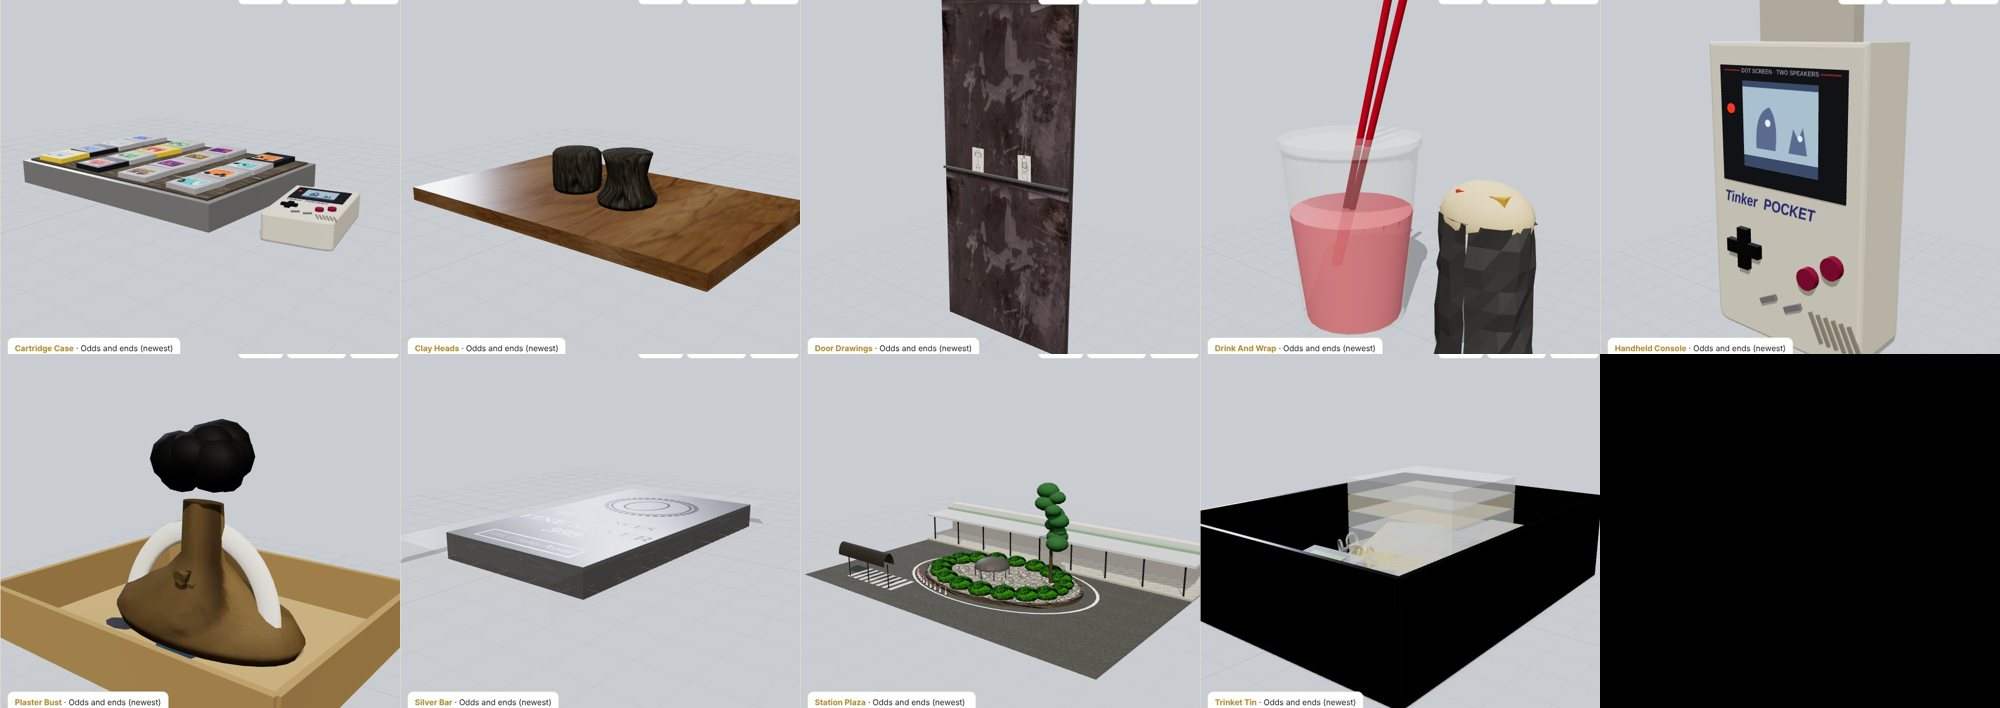
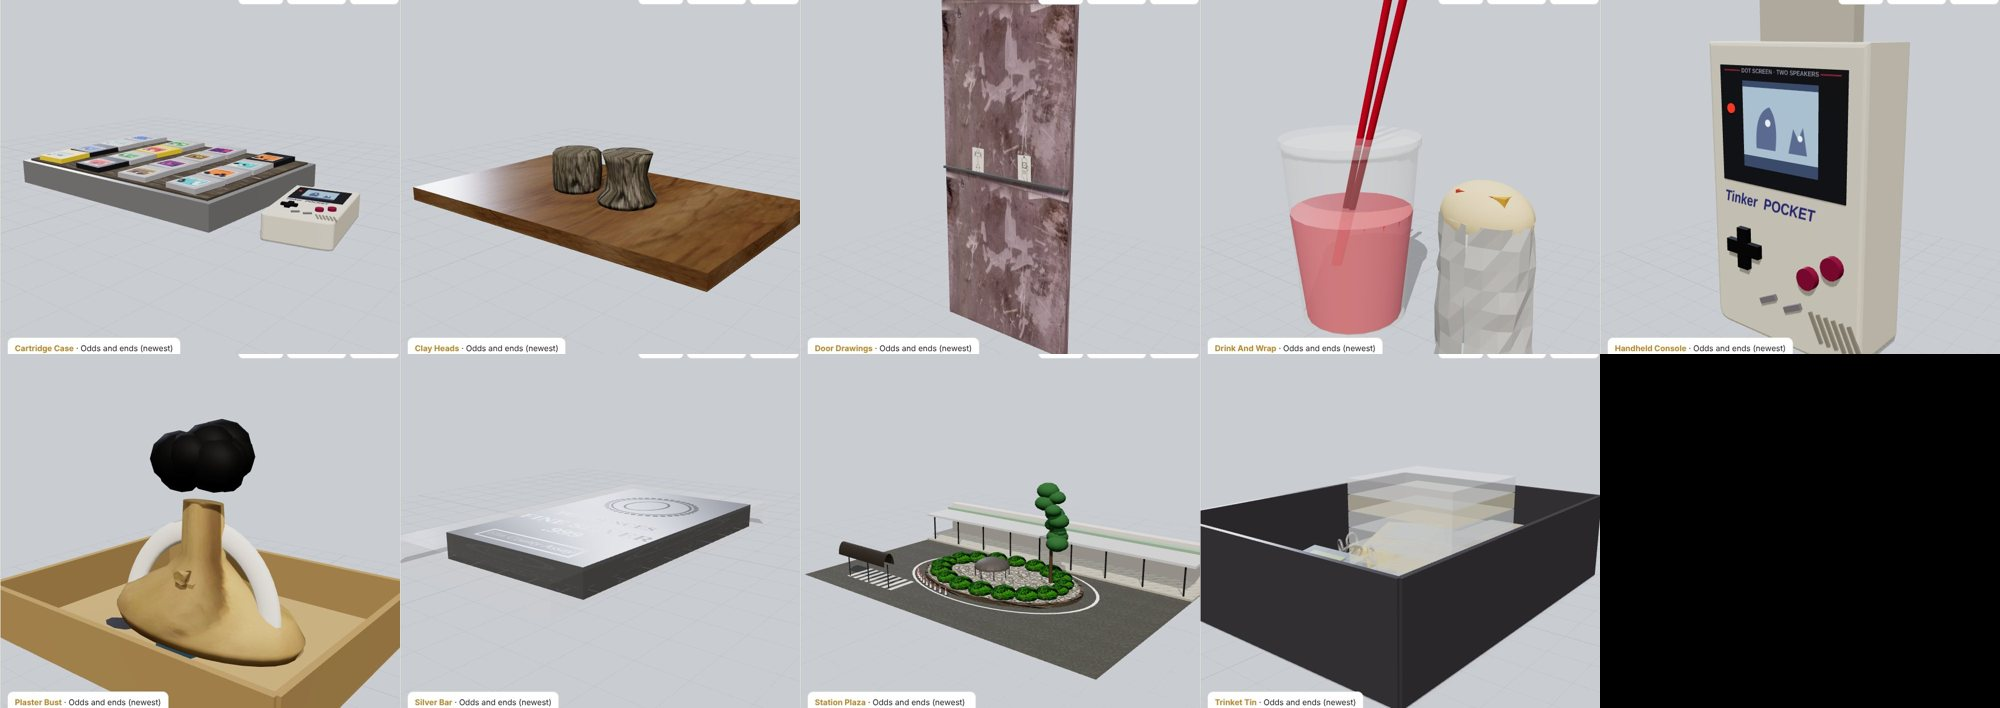
143 Colour fixes on the odds-and-ends models
Claude-Session: https://claude.ai/code/session_01TQrqJmAwukpHBFUrZd2qrz

diff --git a/src/models/props143.js b/src/models/props143.js
@@ -19,7 +19,7 @@ const counter = (g, w = 0.5, d = 0.3) => { const t = B(w, 0.02, d, tiled('g143_w
 // ---- two little heads of dried clay: a squat one and a pinched one, round eye holes, a slot of a mouth, crazed all over
 function head(profile, eyes, mouth, seed) { const r = rng(seed), pts = profile.map(([x, y]) => new THREE.Vector2(x, y)), geo = new THREE.LatheGeometry(pts, 40), p = geo.attributes.position;
   for (let i = 0; i < p.count; i++) { const x = p.getX(i), y = p.getY(i), z = p.getZ(i), a = Math.atan2(x, z); let k = 1 + (r() - 0.5) * 0.04 + Math.sin(a * 3 + y * 40) * 0.015; for (const [ex, ey, er] of eyes) { const d = Math.hypot((a - ex) * 0.03, y - ey); if (d < er && z > 0) k -= (1 - d / er) * 0.28; } const [mx0, mx1, my, mh] = mouth, md = Math.abs(y - my); if (z > 0 && a > mx0 && a < mx1 && md < mh) k -= (1 - md / mh) * 0.35 * Math.sin((a - mx0) / (mx1 - mx0) * PI); p.setXYZ(i, x * k, y, z * k); }
-  geo.computeVertexNormals(); const uv = geo.attributes.uv; for (let i = 0; i < uv.count; i++) uv.setXY(i, Math.atan2(p.getX(i), p.getZ(i)) * 0.3, p.getY(i) * 6); const m = new THREE.Mesh(geo, mat('g143_clay_cracked', { tint: '#c8c8c4', rough: 1, normal: 1.4 })); const g = new THREE.Group(); g.add(m); const top = new THREE.Mesh(new THREE.CircleGeometry(profile[profile.length - 1][0], 28), mat('g143_clay_cracked', { tint: '#c8c8c4', rough: 1 })); top.rotation.x = -PI / 2; top.position.y = profile[profile.length - 1][1]; g.add(top);
+  geo.computeVertexNormals(); const uv = geo.attributes.uv; for (let i = 0; i < uv.count; i++) uv.setXY(i, Math.atan2(p.getX(i), p.getZ(i)) * 0.3, p.getY(i) * 6); const m = new THREE.Mesh(geo, mat('g143_clay_cracked', { to: '#d0ccc4', rough: 1, normal: 1.4 })); const g = new THREE.Group(); g.add(m); const top = new THREE.Mesh(new THREE.CircleGeometry(profile[profile.length - 1][0], 28), mat('g143_clay_cracked', { to: '#d0ccc4', rough: 1 })); top.rotation.x = -PI / 2; top.position.y = profile[profile.length - 1][1]; g.add(top);
   // the dark of the holes
   const dk = plain('#141412', { roughness: 1 }); for (const [ex, ey, er] of eyes) { const o = new THREE.Mesh(new THREE.CircleGeometry(er * 0.7, 12), dk); const R = profile.find((q) => q[1] >= ey)[0] * 0.8; o.position.set(Math.sin(ex) * R, ey, Math.cos(ex) * R); o.lookAt(Math.sin(ex) * R * 3, ey, Math.cos(ex) * R * 3); g.add(o); } return g; }
 export function makeClayHeads() { const g = new THREE.Group(); counter(g);
@@ -28,7 +28,7 @@ export function makeClayHeads() { const g = new THREE.Group(); counter(g);
 
 // ---- a plaster bust being painted: a long neck on spread shoulders, no face below the hair but a nose and a lip,
 // a mop of black hair, a white band at the shoulders; on newspaper in a cardboard tray
-export function makePlasterBust() { const g = new THREE.Group(), pl = mat('g143_plaster', { tint: '#e8dcc0', rough: 0.85 }), r = rng(4);
+export function makePlasterBust() { const g = new THREE.Group(), pl = mat('g143_plaster', { to: '#e6dcc2', rough: 0.85 }), r = rng(4);
   B(0.5, 0.005, 0.4, plain('#b89a6a', { roughness: 0.95 }), 0, 0.0025, 0, g); for (const [x, z, w, d] of [[0, -0.2, 0.5, 0.01], [0, 0.2, 0.5, 0.01], [-0.25, 0, 0.01, 0.4], [0.25, 0, 0.01, 0.4]]) B(w, 0.08, d, plain('#a88a5a', { roughness: 0.95 }), x, 0.04, z, g);
   for (let i = 0; i < 4; i++) { const s = new THREE.Mesh(new THREE.CircleGeometry(0.02 + r() * 0.03, 9), plain(['#1a1a1c', '#d8d8d4', '#1a3a4a'][i % 3], { roughness: 0.6 })); s.rotation.x = -PI / 2; s.scale.y = 0.5 + r(); s.position.set((r() - 0.5) * 0.4, 0.006, 0.05 + r() * 0.12); g.add(s); }
   const sh = new THREE.LatheGeometry([[0, 0], [0.16, 0.0], [0.17, 0.02], [0.15, 0.05], [0.07, 0.09], [0.04, 0.12], [0.035, 0.2], [0, 0.2]].map(([x, y]) => new THREE.Vector2(x, y)), 32); sh.scale(1, 1, 0.5); const body = new THREE.Mesh(sh, pl); body.position.y = 0.005; g.add(body);
@@ -54,7 +54,7 @@ export function makeCartridgeCase() { const g = new THREE.Group(); B(0.42, 0.04,
 
 // ---- a biscuit tin of oddments: two egg-shaped pocket pets with brick-patterned shells, cartridges in clear sleeves,
 // a disc in its little case, a tangle of figures and keyrings
-export function makeTrinketTin() { const g = new THREE.Group(), r = rng(11); B(0.18, 0.002, 0.23, plain('#1a1a1c', { roughness: 0.35, metalness: 0.6 }), 0, 0.001, 0, g); for (const [x, z, w, d] of [[0, -0.115, 0.18, 0.003], [0, 0.115, 0.18, 0.003], [-0.09, 0, 0.003, 0.23], [0.09, 0, 0.003, 0.23]]) B(w, 0.06, d, plain('#1a1a1c', { roughness: 0.35, metalness: 0.6 }), x, 0.03, z, g);
+export function makeTrinketTin() { const g = new THREE.Group(), r = rng(11); B(0.18, 0.002, 0.23, plain('#4a4a50', { roughness: 0.4 }), 0, 0.001, 0, g); for (const [x, z, w, d] of [[0, -0.115, 0.18, 0.003], [0, 0.115, 0.18, 0.003], [-0.09, 0, 0.003, 0.23], [0.09, 0, 0.003, 0.23]]) B(w, 0.06, d, plain('#4a4a50', { roughness: 0.4 }), x, 0.03, z, g);
   const pet = (x, z, col, rot) => { const p = new THREE.Group(); p.position.set(x, 0.012, z); p.rotation.set(-PI / 2 + 0.15, 0, rot); g.add(p); B(0.05, 0.062, 0.018, sheet(64, 80, (cx, w, h) => { cx.fillStyle = col; cx.fillRect(0, 0, w, h); cx.strokeStyle = '#0003'; for (let y = 0; y < h; y += 12) { cx.beginPath(); cx.moveTo(0, y); cx.lineTo(w, y); cx.stroke(); for (let k = 0; k < 3; k++) { cx.beginPath(); cx.moveTo((k * 24 + (y / 12 % 2) * 12) % w, y); cx.lineTo((k * 24 + (y / 12 % 2) * 12) % w, y + 12); cx.stroke(); } } }, { roughness: 0.5 }), 0, 0, 0, p); B(0.03, 0.028, 0.002, plain('#a8b890', { roughness: 0.2 }), 0, 0.008, 0.0095, p); for (let k = -1; k <= 1; k++) C(0.004, 0.004, 0.003, plain('#c8c8c4'), k * 0.012, -0.02, 0.01, p, 10, PI / 2); };
   pet(-0.04, -0.05, '#e8b41e', 0.3); pet(-0.04, 0.05, '#7a8a9a', 0); for (let i = 0; i < 9; i++) { const sl = B(0.07, 0.009, 0.064, new THREE.MeshStandardMaterial({ color: ['#dfe8f0', '#f0e8c8', '#e0e8f4'][i % 3], roughness: 0.2, transparent: true, opacity: 0.7 }), 0.045, 0.006 + i * 0.0095, 0.03, g); } for (let i = 0; i < 3; i++) B(0.07, 0.01, 0.06, plain('#a8a094', { roughness: 0.55 }), 0.045, 0.006 + i * 0.011, -0.07, g);
   for (let i = 0; i < 6; i++) { const t = new THREE.Mesh(new THREE.TorusGeometry(0.006, 0.0012, 5, 12), plain('#b8bcc0', { metalness: 0.7, roughness: 0.3 })); t.position.set(-0.06 + r() * 0.03, 0.01 + r() * 0.02, -0.01 + r() * 0.03); t.rotation.set(r() * 3, r() * 3, 0); g.add(t); } return shadows(g); }
@@ -65,12 +65,12 @@ export function makeSilverBar() { const g = new THREE.Group(), ag = new THREE.Me
 
 // ---- lunch on the steering wheel: a fizzy red drink in a sweating cup with two straws, a wrap in foil, a bite gone
 export function makeDrinkAndWrap() { const g = new THREE.Group(), cup = new THREE.MeshStandardMaterial({ color: '#f4f6f8', roughness: 0.1, transparent: true, opacity: 0.35, depthWrite: false }); const c = C(0.048, 0.038, 0.13, cup, 0, 0.065, 0, g, 22); c.castShadow = false; C(0.044, 0.035, 0.08, new THREE.MeshStandardMaterial({ color: '#e8505a', roughness: 0.2, transparent: true, opacity: 0.85 }), 0, 0.042, 0, g, 20); C(0.05, 0.05, 0.006, cup, 0, 0.132, 0, g, 22); for (const [dx, a] of [[0.008, 0.28], [0.016, 0.32]]) { const s = C(0.0025, 0.0025, 0.2, plain('#c81c2a', { roughness: 0.3 }), dx, 0.13, 0, g, 8); s.rotation.z = -a; }
-  const foil = new THREE.CylinderGeometry(0.03, 0.032, 0.1, 18, 8), p = foil.attributes.position, r = rng(5); for (let i = 0; i < p.count; i++) { const k = 1 + (r() - 0.5) * 0.18; p.setX(i, p.getX(i) * k); p.setZ(i, p.getZ(i) * k * 0.7); } foil.computeVertexNormals(); const f = new THREE.Mesh(foil, new THREE.MeshStandardMaterial({ color: '#d8dadc', roughness: 0.25, metalness: 0.9, flatShading: true })); f.position.set(0.11, 0.05, 0); g.add(f);
+  const foil = new THREE.CylinderGeometry(0.03, 0.032, 0.1, 18, 8), p = foil.attributes.position, r = rng(5); for (let i = 0; i < p.count; i++) { const k = 1 + (r() - 0.5) * 0.18; p.setX(i, p.getX(i) * k); p.setZ(i, p.getZ(i) * k * 0.7); } foil.computeVertexNormals(); const f = new THREE.Mesh(foil, new THREE.MeshStandardMaterial({ color: '#e4e6e8', roughness: 0.3, metalness: 0.35, flatShading: true })); f.position.set(0.11, 0.05, 0); g.add(f);
   const wrap = new THREE.Mesh(new THREE.SphereGeometry(0.03, 14, 10, 0, PI * 2, 0, PI * 0.6), plain('#e8d4a8', { roughness: 0.8 })); wrap.scale.set(1, 0.7, 0.7); wrap.position.set(0.11, 0.1, 0); g.add(wrap); for (let i = 0; i < 4; i++) B(0.008, 0.008, 0.008, plain(['#c84a2a', '#d8a03a'][i % 2]), 0.1 + i * 0.008, 0.112, 0.008, g); return shadows(g); }
 
 // ---- two cards of ink drawings stood on a rail across a scratched steel door: long-necked heads with stuck-out ears
 // (our own drawings in that manner)
-export function makeDoorDrawings() { const g = new THREE.Group(); B(0.9, 2.0, 0.04, tiled('g143_steel_scratched', 1, 2, { rough: 0.5, metal: 0.4 }), 0, 1.0, 0, g); B(0.9, 0.012, 0.025, plain('#c8ccd0', { roughness: 0.2, metalness: 0.8 }), 0, 1.0, 0.03, g);
+export function makeDoorDrawings() { const g = new THREE.Group(); B(0.9, 2.0, 0.04, tiled('g143_steel_scratched', 1, 2, { to: '#c4bec0', rough: 0.5, metal: 0.05 }), 0, 1.0, 0, g); B(0.9, 0.012, 0.025, plain('#c8ccd0', { roughness: 0.2, metalness: 0.8 }), 0, 1.0, 0.03, g);
   const card = (x, draw, tilt) => { const c = decal(0.09, 0.16, sheet(90, 160, (cx, w, h) => { cx.fillStyle = '#f4f2ea'; cx.fillRect(0, 0, w, h); cx.strokeStyle = '#16161a'; cx.fillStyle = '#16161a'; cx.lineWidth = 2; cx.lineCap = 'round'; draw(cx, w, h); }, { roughness: 0.9 }), x, 1.07, 0.024, g); c.rotation.z = tilt; };
   card(-0.18, (x) => { x.beginPath(); x.arc(45, 34, 18, 0, 7); x.stroke(); for (const s of [-1, 1]) { x.beginPath(); x.arc(45 + s * 7, 30, 5, 0, 7); x.stroke(); x.beginPath(); x.arc(45 + s * 7, 30, 1.5, 0, 7); x.fill(); x.beginPath(); x.arc(45 + s * 23, 32, 6, 0, 7); x.stroke(); x.beginPath(); x.moveTo(45 + s * 23, 40); x.lineTo(45 + s * 27, 54); x.lineTo(45 + s * 19, 54); x.closePath(); x.stroke(); } for (let k = -1; k <= 1; k++) { x.beginPath(); x.moveTo(45 + k * 8, 16); x.lineTo(45 + k * 8, 8); x.stroke(); x.beginPath(); x.arc(45 + k * 8, 6, 2, 0, 7); x.fill(); } x.beginPath(); x.moveTo(40, 52); x.lineTo(40, 100); x.moveTo(50, 52); x.lineTo(50, 100); x.stroke(); x.beginPath(); x.ellipse(45, 128, 16, 26, 0, 0, 7); x.stroke(); for (const s of [-1, 1]) { x.beginPath(); x.arc(45 + s * 7, 120, 3, 0, 7); x.stroke(); } x.beginPath(); x.moveTo(43, 130); x.lineTo(46, 140); x.stroke(); }, -0.02);
   card(0.16, (x) => { x.beginPath(); x.moveTo(30, 30); x.quadraticCurveTo(30, 12, 50, 14); x.quadraticCurveTo(66, 16, 64, 40); x.lineTo(62, 120); x.lineTo(64, 150); x.moveTo(30, 30); x.lineTo(32, 100); x.quadraticCurveTo(22, 118, 36, 126); x.quadraticCurveTo(44, 134, 50, 150); x.stroke(); x.lineWidth = 4; x.strokeRect(36, 40, 22, 30); x.lineWidth = 2; x.beginPath(); x.arc(47, 55, 3, 0, 7); x.stroke(); x.beginPath(); x.ellipse(68, 70, 6, 12, 0, 0, 7); x.stroke(); x.beginPath(); x.arc(45, 8, 4, 0, 7); x.fill(); for (let k = 0; k < 4; k++) { x.beginPath(); x.moveTo(36, 86 + k * 6); x.quadraticCurveTo(46, 82 + k * 6, 56, 86 + k * 6); x.stroke(); } }, 0.03);
